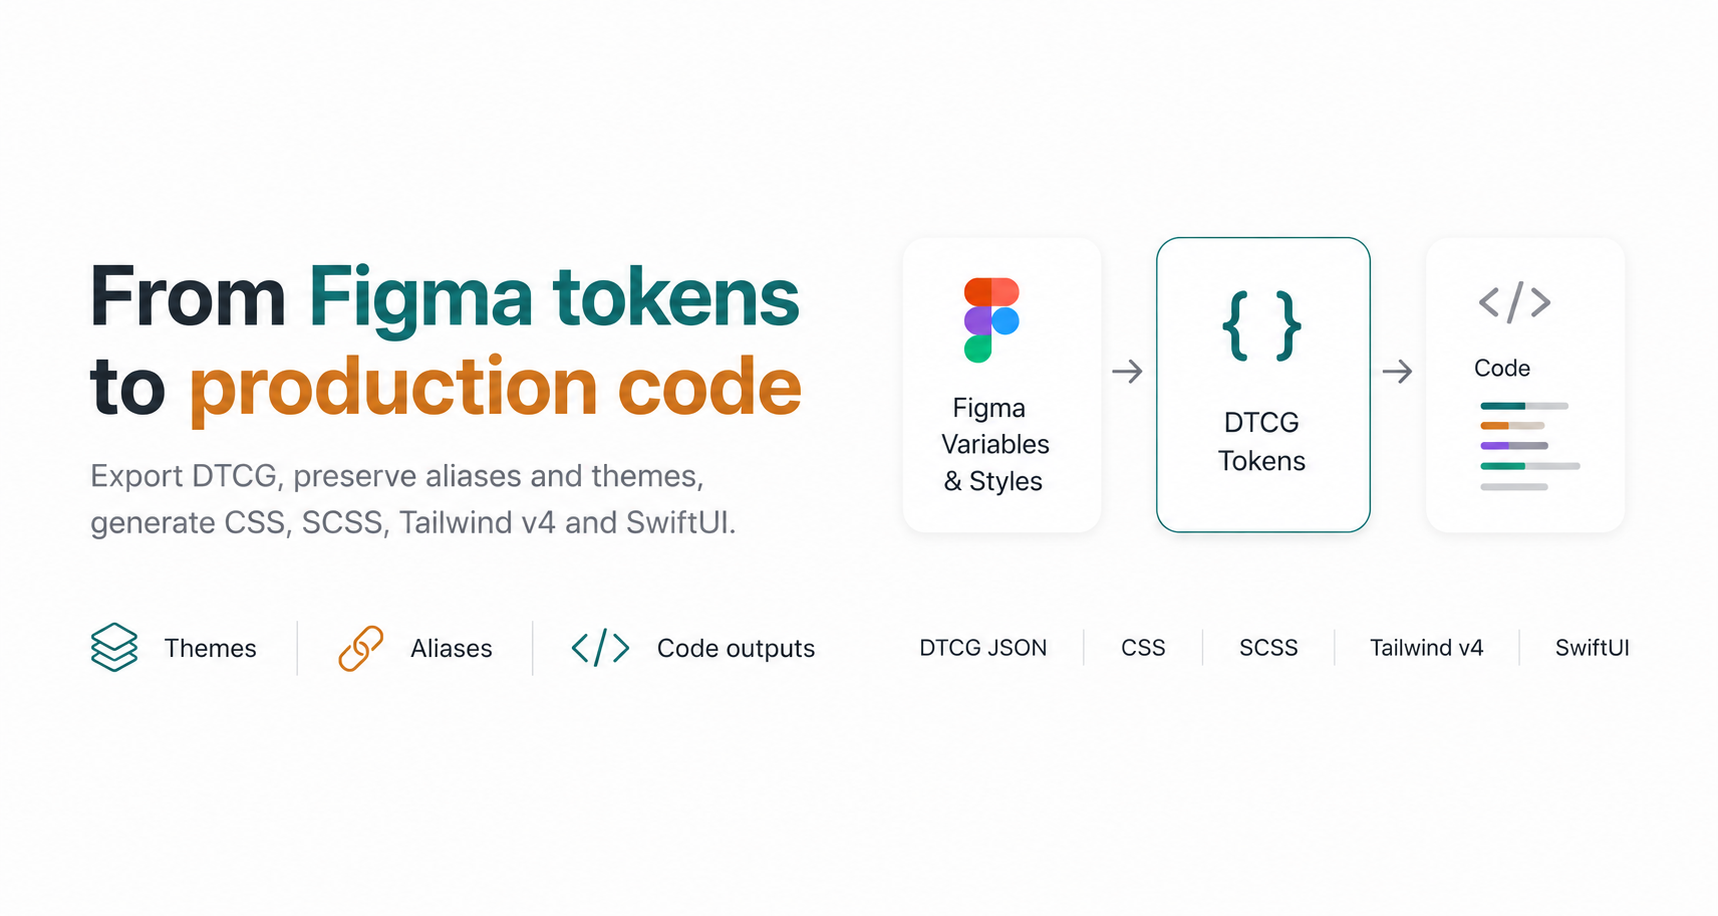
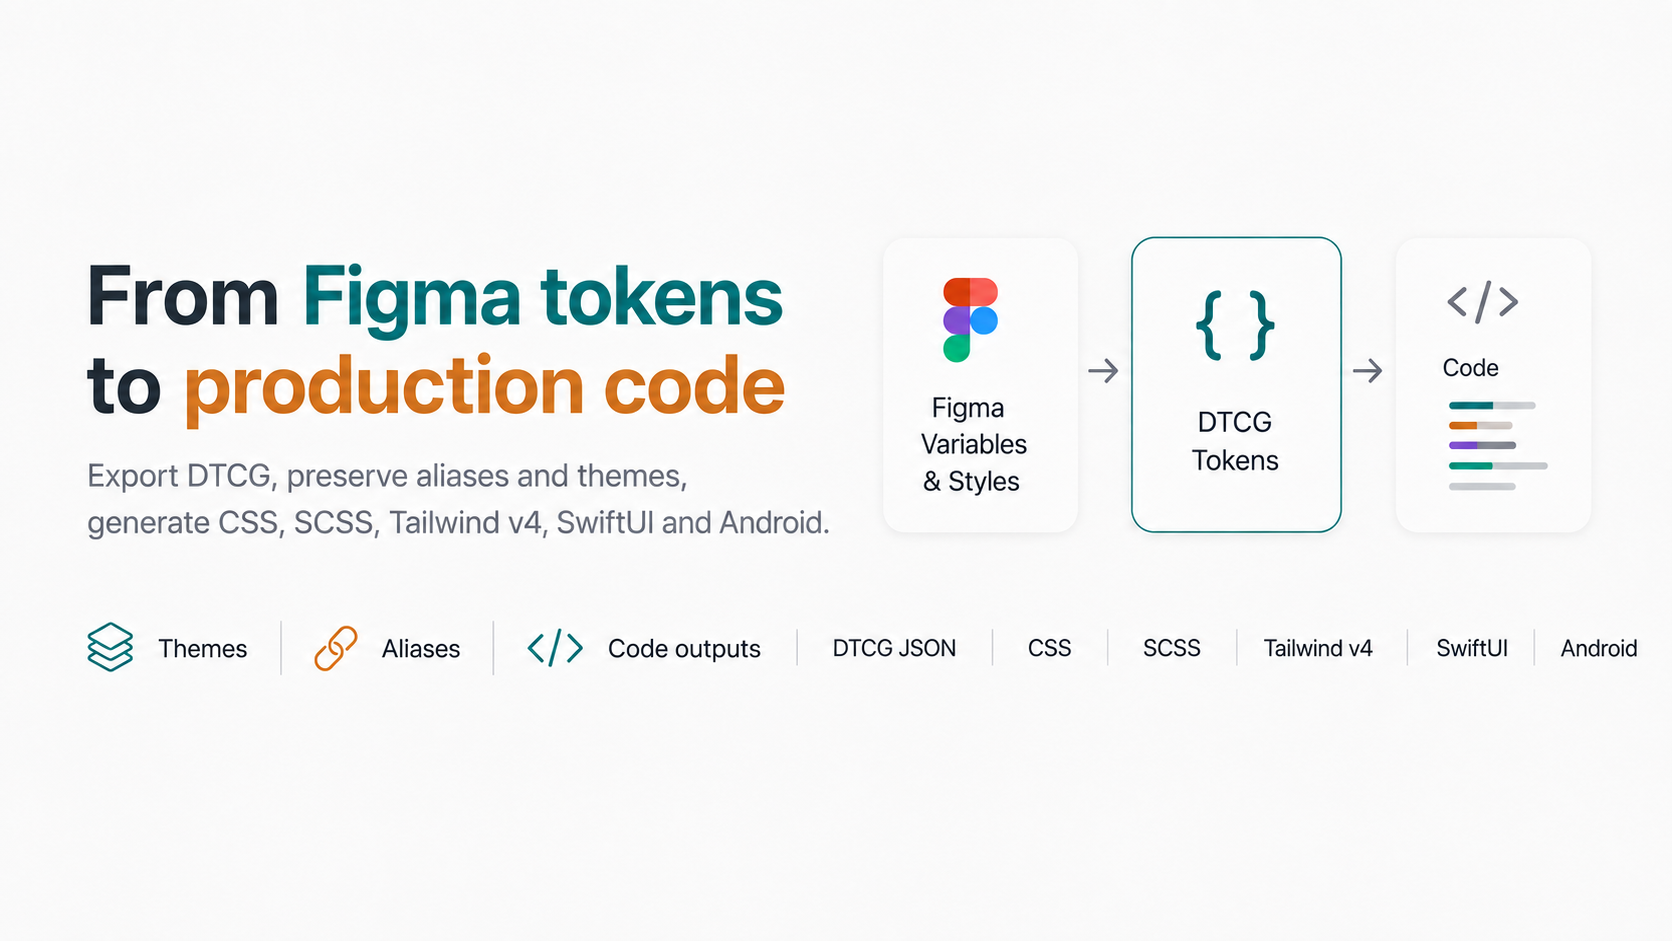
Added Android

diff --git a/figma-plugin/ui.html b/figma-plugin/ui.html
@@ -373,6 +373,10 @@
             color: #f05138;
         }
 
+        .format-button[data-token-export-message="EXPORT_TOKENS_ANDROID"] .format-icon {
+            color: #3ddc84;
+        }
+
         .status {
             display: flex;
             align-items: center;
@@ -650,7 +654,7 @@
             <div>
                 <p class="eyebrow">Design Token Kit</p>
                 <h1 id="export-title" class="title">From Figma tokens to production code</h1>
-                <p class="description">Export DTCG, preserve aliases and themes, generate CSS, SCSS, Tailwind v4, and SwiftUI.</p>
+                <p class="description">Export DTCG, preserve aliases and themes, generate CSS, SCSS, Tailwind v4, Android XML, and SwiftUI.</p>
             </div>
             <img class="hero-logo" data-logo alt="Design Token Kit layered token logo">
         </div>
@@ -718,6 +722,14 @@
                     </svg>
                 </span>
                 <span>SwiftUI</span>
+            </button>
+            <button class="format-button" data-token-export-message="EXPORT_TOKENS_ANDROID" aria-pressed="false">
+                <span class="format-icon solid" aria-hidden="true">
+                    <svg viewBox="0 0 32 32">
+                        <path d="M9.1 11.7h13.8c.7 0 1.2.6 1.2 1.3v9.8c0 .7-.5 1.2-1.2 1.2H9.1c-.7 0-1.2-.5-1.2-1.2V13c0-.7.5-1.3 1.2-1.3Zm2.4 3.3a1.1 1.1 0 1 0 0 2.2 1.1 1.1 0 0 0 0-2.2Zm9 0a1.1 1.1 0 1 0 0 2.2 1.1 1.1 0 0 0 0-2.2ZM12 20h8v1.5h-8V20ZM10.3 9.8l-1.4-2.4.9-.5 1.4 2.4a11 11 0 0 1 9.8 0l1.4-2.4.9.5-1.4 2.4a7.9 7.9 0 0 1 2.4 1.2H7.9a7.9 7.9 0 0 1 2.4-1.2Z" />
+                    </svg>
+                </span>
+                <span>Android XML</span>
             </button>
             <button class="format-button" data-token-export-message="EXPORT_TOKENS_DTCG" aria-pressed="false">
                 <span class="format-icon" aria-hidden="true">

diff --git a/figma-plugin/src/token-export/TokenConversionService.ts b/figma-plugin/src/token-export/TokenConversionService.ts
@@ -1,5 +1,6 @@
 import { DtcgJsonReader } from "@design-token-kit/core/core/io/DtcgJsonReader";
 import { DtcgList } from "@design-token-kit/core/core/model/DtcgList";
+import { AndroidTokenConverter } from "@design-token-kit/core/core/platforms/android/AndroidTokenConverter";
 import { CssTokenConverter } from "@design-token-kit/core/core/platforms/css/CssTokenConverter";
 import { ScssTokenConverter } from "@design-token-kit/core/core/platforms/scss/ScssTokenConverter";
 import { SwiftUiTokenConverter } from "@design-token-kit/core/core/platforms/swiftui/SwiftUiTokenConverter";
@@ -45,6 +46,11 @@ export class TokenConversionService {
 
         if (format === "tailwind-v4") {
             return [toFile("tokens.tailwind.css", new TailwindTokenConverter().convertList(list))];
+        }
+
+        if (format === "android") {
+            return new AndroidTokenConverter().convertResourceList(list)
+                .map((output) => toFile(output.filePath, output.content));
         }
 
         return [toFile("DesignTokens.swift", new SwiftUiTokenConverter().convertList(list))];
@@ -110,6 +116,6 @@ function toFile(fileName: string, content: string): ConvertedTokenFile {
     };
 }
 
-type PlatformTokenOutputFormat = "css" | "scss" | "tailwind-v4" | "swiftui";
+type PlatformTokenOutputFormat = "css" | "scss" | "tailwind-v4" | "android" | "swiftui";
 
 export type TokenOutputFormat = PlatformTokenOutputFormat | "dtcg";

diff --git a/figma-plugin/test/figma/figma-file-json.test.ts b/figma-plugin/test/figma/figma-file-json.test.ts
@@ -1542,6 +1542,17 @@ describe("message flow", () => {
         expect(payload.files[0].content).toContain("enum DesignTokens");
     });
 
+    it("converts exported tokens to Android resources through core", async () => {
+        const context = loadSingleColorTokenContext();
+
+        await context.sendMessage({ type: "EXPORT_TOKENS_ANDROID" });
+
+        const payload = getTokenExportPayload(context.postedMessages[0]);
+        expect(payload.files).toHaveLength(1);
+        expect(payload.files[0].fileName).toBe("values/primitive.xml");
+        expect(payload.files[0].content).toContain("<color name=\"primitive_color_blue_500\"");
+    });
+
     it("posts a plugin export payload through the plugin message flow", async () => {
         const pageExport = {
             editorType: "figma",

diff --git a/figma-plugin/src/code.ts b/figma-plugin/src/code.ts
@@ -150,6 +150,8 @@ function toTokenOutputFormat(type: PluginMessage["type"]): TokenOutputFormat | u
             return "scss";
         case "EXPORT_TOKENS_TAILWIND":
             return "tailwind-v4";
+        case "EXPORT_TOKENS_ANDROID":
+            return "android";
         case "EXPORT_TOKENS_SWIFTUI":
             return "swiftui";
         default:
@@ -165,5 +167,6 @@ type PluginMessage =
     | { type: "EXPORT_TOKENS_CSS" }
     | { type: "EXPORT_TOKENS_SCSS" }
     | { type: "EXPORT_TOKENS_TAILWIND" }
+    | { type: "EXPORT_TOKENS_ANDROID" }
     | { type: "EXPORT_TOKENS_SWIFTUI" }
     | { type: "EXPORT_REST_JSON"; accessToken: string };

diff --git a/figma-plugin/README.md b/figma-plugin/README.md
@@ -8,7 +8,7 @@ normalizes both into one internal DTO.
 - exports `figma.plugin.json` through Plugin API
 - exports `figma.rest.json` through the real Figma REST API
 - exports `tokens.json` with DTCG tokens from Figma Variables or paint styles
-- converts exported DTCG tokens to CSS, SCSS, Tailwind v4, and SwiftUI through
+- converts exported DTCG tokens to CSS, SCSS, Tailwind v4, Android XML, and SwiftUI through
   `@design-token-kit/core`
 - normalizes both payloads into one internal DTO
 - previews the last exported JSON in the plugin UI
